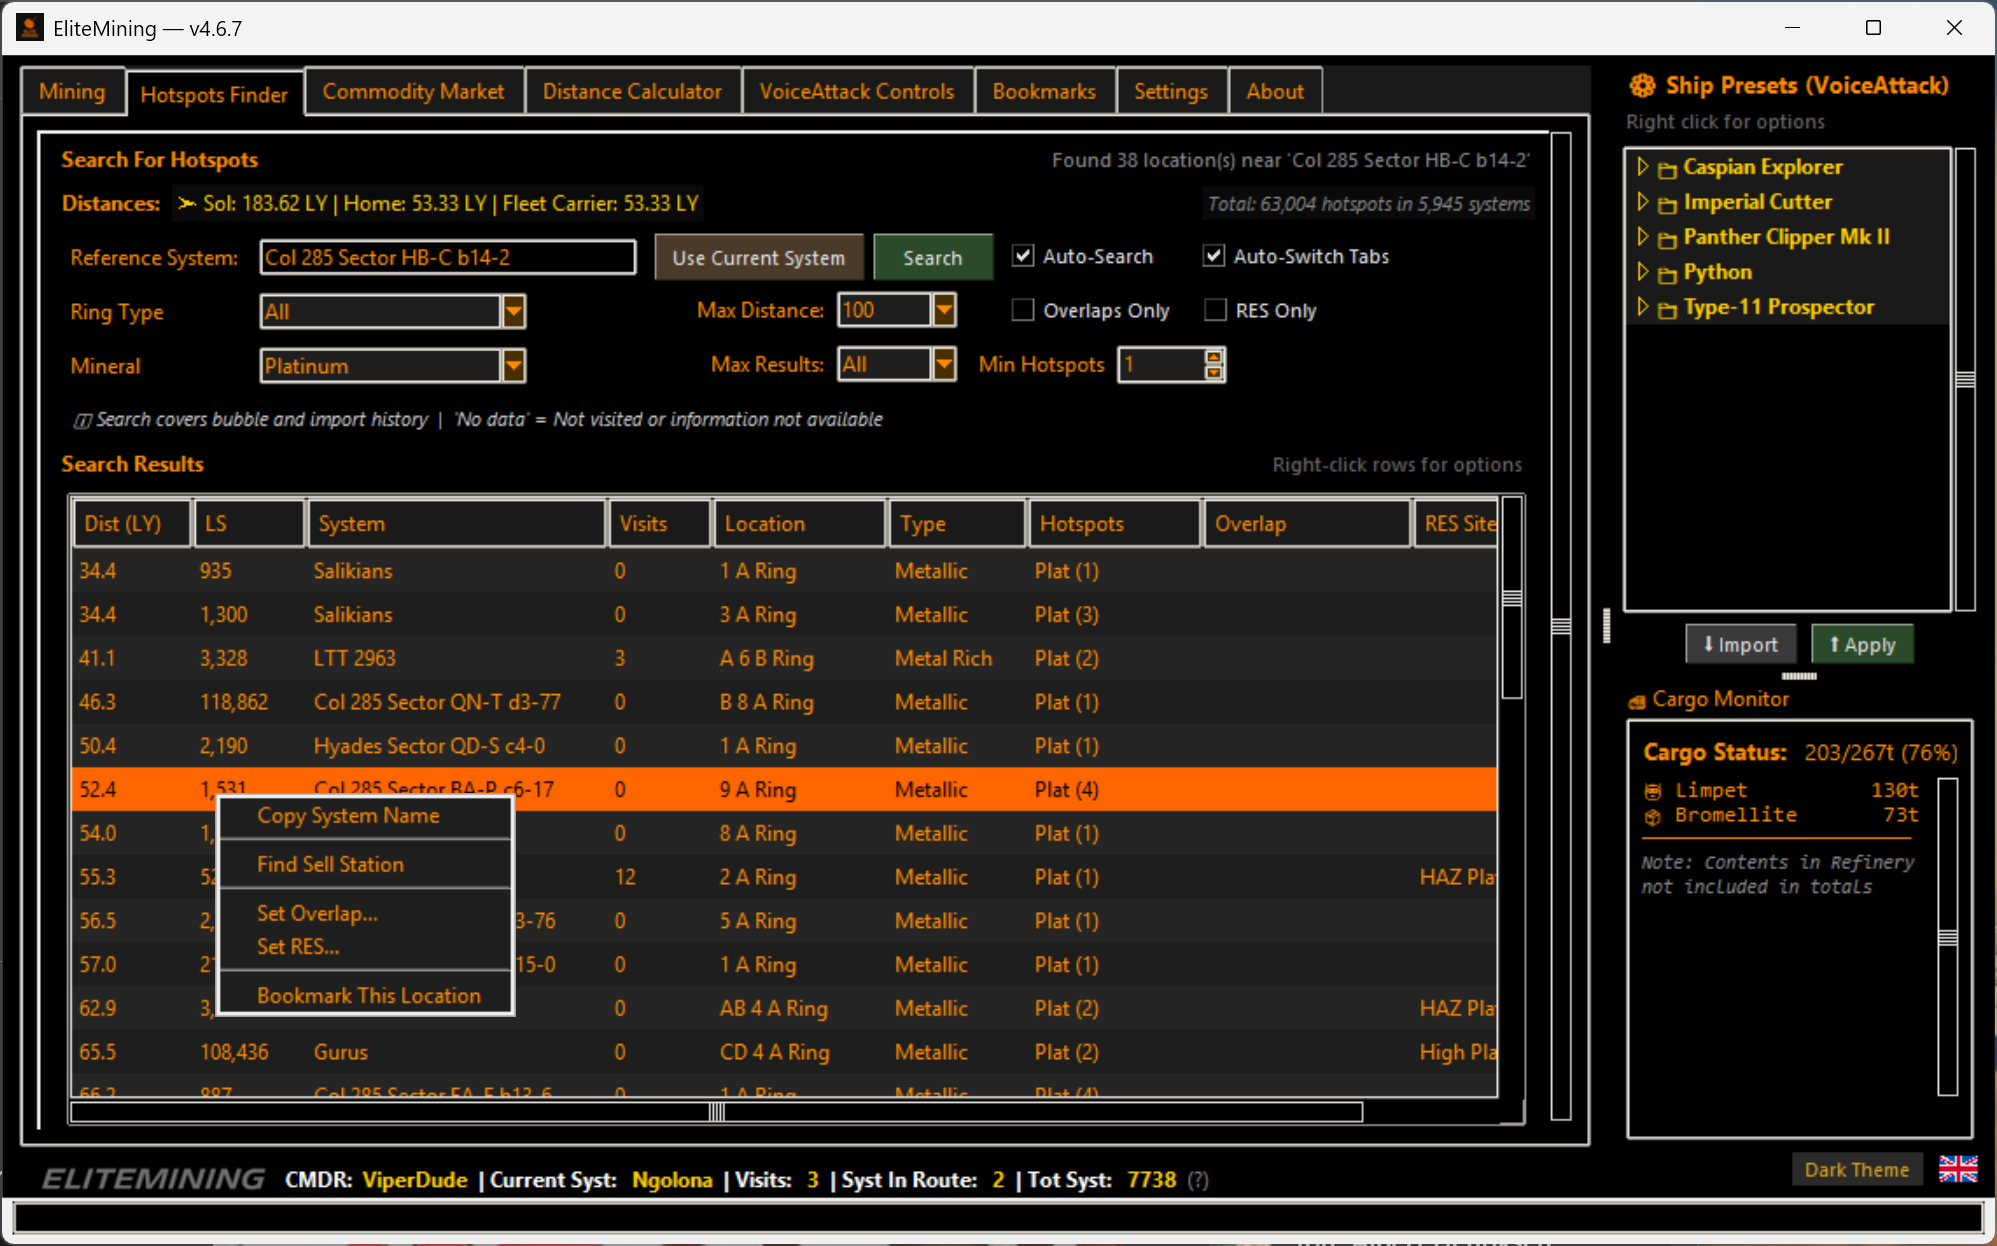
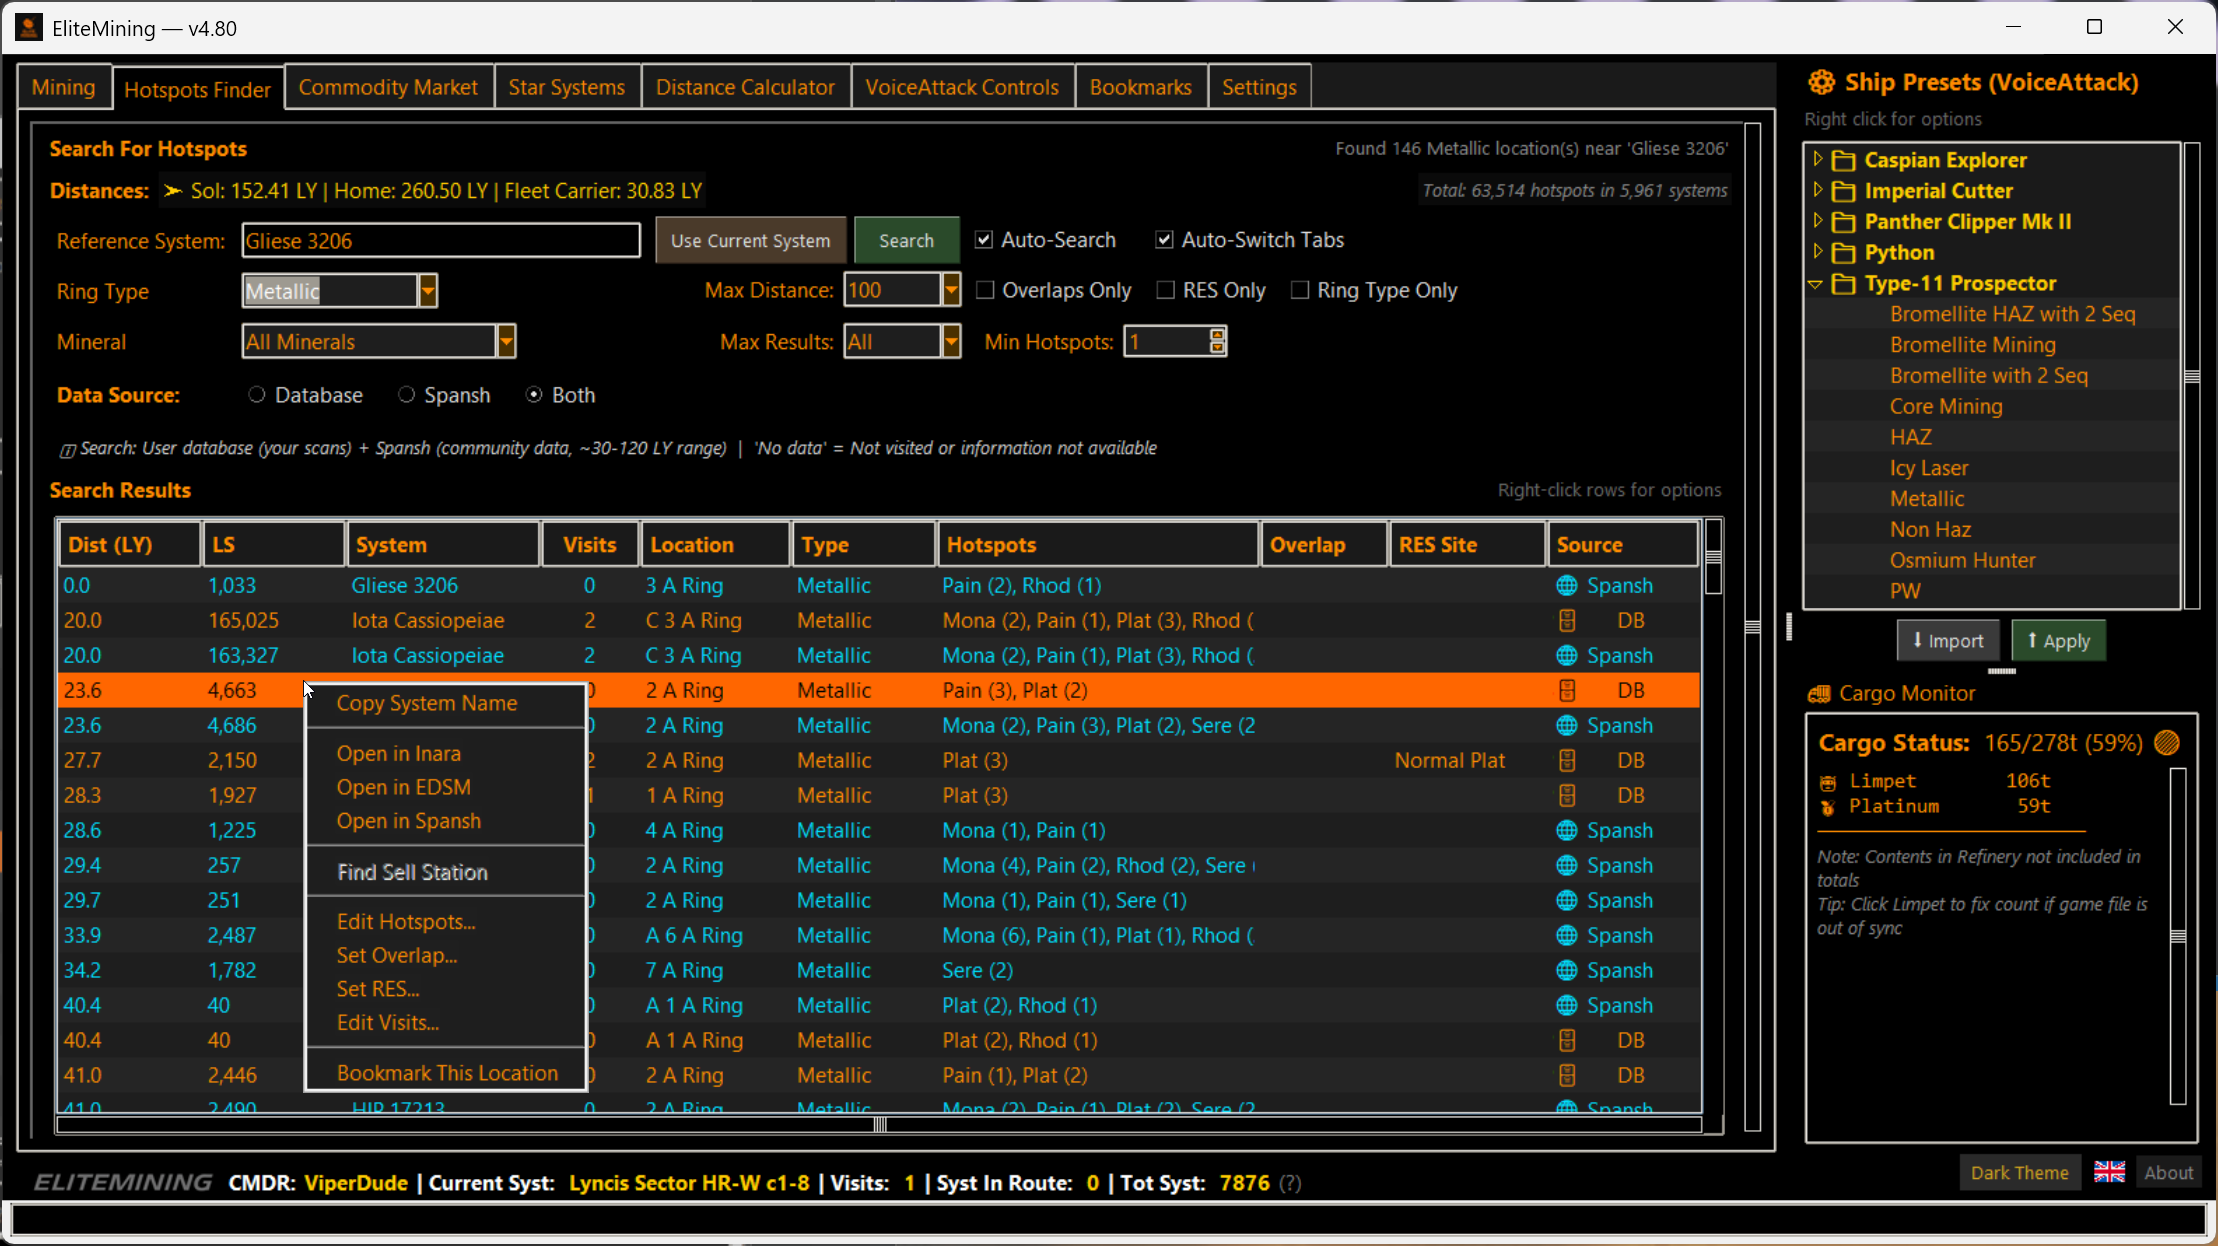
Update README and screenshots for v4.8.0 Spansh features
- Added Spansh community data integration to README
- Added Ring Type Only search feature description
- Updated ring finder screenshot

diff --git a/README.md b/README.md
@@ -3,8 +3,6 @@
 # <img src="https://github.com/Viper-Dude/EliteMining/blob/main/app/Images/logo_multi.ico" width="32" height="32"> EliteMining
 [![Discord](https://img.shields.io/badge/Discord%20Community-Join%20Server-5865F2?style=for-the-badge&logo=discord&logoColor=white)](https://discord.gg/5dsF3UshRR)
 
-> **Latest Update:** Fixed text overlay brightness slider now controls text visibility as intended.
-
 **EliteMining** optimizes your mining efficiency with live analytics, automated announcements, performance tracking, and a comprehensive hotspot finder with 61,000+ mining locations, overlaps, and RES sites as a standalone application. Optional VoiceAttack integration enables voice/hotkey mining sequences for complete hands-free operation.
 
 ---
@@ -195,11 +193,14 @@ Control mining sequence timing and automated behaviors:
 
 ## Hotspot Finder
 
-The Hotspot Finder provides access to a comprehensive database of 61,000+ confirmed mining hotspots with detailed location data, minerals information, and intelligent filtering capabilities.
+The Hotspot Finder provides access to a comprehensive database of 61,000+ confirmed mining hotspots with detailed location data, minerals information, and intelligent filtering capabilities, plus integrated community data from Spansh.
 
 ### Key Features
 - **Search Planetary Rings** – Find optimal mining rings (Ice, Metal Rich, Rocky, Metallic)
 - **Filter by Minerals** – Search for specific minerals (Painite, Platinum, Low Temperature Diamonds, etc.)
+- **Community Data Integration** – Search includes Spansh.co.uk community data alongside your personal scans for comprehensive coverage (~30-120 LY range)
+- **Ring Type Only Search** – Find rings by type without requiring hotspot data, useful for exploring unmarked rings
+- **Data Source Selection** – Choose between Database (your scans), Spansh (community data), or Both for best results
 - **Min Hotspots Filter** – Filter results to show only rings with X or more hotspots (1-20 range, available when specific mineral selected)
 - **Auto-Search** – Automatically searches for hotspots when jumping to new systems and auto-refreshes results when scanning rings (remembers preference across restarts)
 - **Pre-loaded Database** – 61,000+ hotspots with minerals types, ring densities

diff --git a/docs/PATCHNOTES_v4.80.md b/docs/PATCHNOTES_v4.80.md
@@ -6,22 +6,12 @@
 ### Hotspot Finder
 - **Community Data Integration** - Search now includes mining locations from Spansh.co.uk alongside your scanned hotspots
 - **Data Source Selection** - Choose between Database (your scans), Spansh (community data), or Both for comprehensive results
-- **Extended Search Range** - Spansh provides additional hotspot coverage up to ~60 light-years
-- **Visual Source Indicators** - Results clearly show whether data is from your database or community sources
-- **Ring Type Only Search** - New search mode to find rings by type (Metallic, Metal Rich, etc.) without requiring hotspot data, useful for exploring unmarked rings
-
-## Hotfix
-
-### [System/Component Name]
-- Fixed [issue description]
-
+- **Extended Search Range** - Spansh provides additional hotspot coverage up to ~120 light-years
+- **Visual Source Indicators** - Results clearly show whether data is from your database or Spansh
+- **Ring Type Only Search** - New search mode to find rings by type (Metallic, Metal Rich, etc.) without requiring hotspot data.
 
 ### Voiceattack Profile
 - No changes - latest version is v4.7.9 (included in the installer and zip file)
-
-### How to update to the latest profile
-- Backup and delete existing EliteMining profile
-
 
 ## Notes!
 - If installer fails with errors, right-click the installer and select "Run as administrator"
